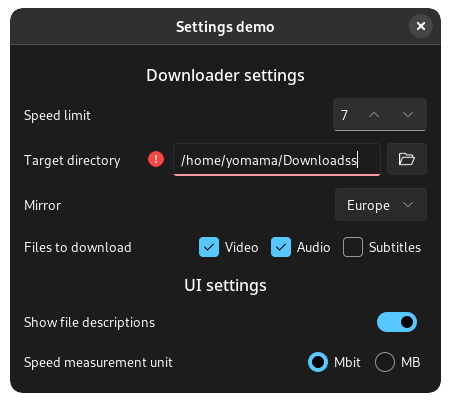
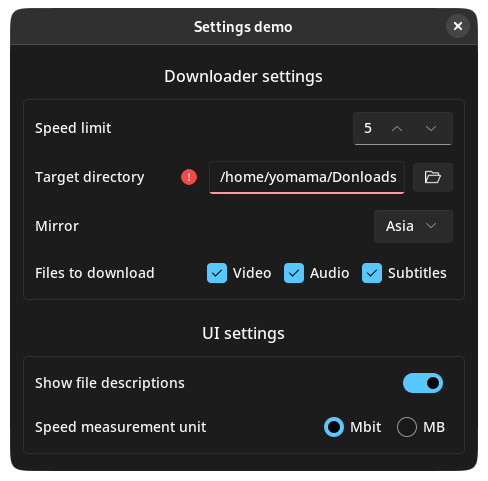
(GUI) Made sure even SectionFrames and TypeFrames inherit ttk classes when enabled (+ improved padding and made it configurable)

diff --git a/settings_gui/tkinter/type_frames.py b/settings_gui/tkinter/type_frames.py
@@ -1,8 +1,7 @@
 import os, typing, colorsys, settings, subprocess, tkinter.filedialog
 import tkinter as tk
 
-from . import PAD
-from ._abstractor import a
+from . import pad, a
 
 
 
@@ -19,14 +18,14 @@ class _Base(a.layer.Frame):
 		self.error_photoimage = tk.PhotoImage(file=_icon_path('error'))
 		self.error_icon = _AppearingWidget(a.layer.Label(self, image=self.error_photoimage))
 
-		a.layer.Label(self, text=setting.name).pack(side='left', padx=PAD)
-		a.layer.Frame(self).pack(side='left', padx=PAD*3)
+		a.layer.Label(self, text=setting.name).pack(side='left', padx=pad())
+		a.layer.Frame(self).pack(side='left', padx=pad()*3)
 
 		self.init()
 
 		if isinstance(self.widget, a.layer.Widget):
 			self.widget: a.layer.Widget
-			self.widget.pack(side='right', padx=PAD)
+			self.widget.pack(side='right', padx=pad())
 
 		if isinstance(self.widget, (a.layer.Entry, a.layer.Spinbox, a.layer.OptionMenu)):
 			self.variable.trace_add('write', self.update_width)
@@ -98,7 +97,7 @@ class Choice(_Base):
 			frame = a.layer.Frame(self)
 			for option in reversed(self.setting.options):
 				a.layer.Radiobutton(frame, text=option, value=option, variable=self.variable,
-				                    command=self.save_from_widget).pack(side='right', padx=PAD)
+				                    command=self.save_from_widget).pack(side='right', padx=pad())
 			self.widget = frame
 		else:
 			self.widget = a.layer.OptionMenu(self, self.variable, self.setting.value, *self.setting.options,
@@ -117,7 +116,7 @@ class Multichoice(_Base):
 		for option in self.setting.options:
 			# noinspection PyTypeChecker
 			a.layer.Checkbutton(self.widget, text=option, variable=self.variable[option],
-			                    command=self.save_from_widget).pack(side=direction, anchor='w', padx=PAD / 2)
+			                    command=self.save_from_widget).pack(side=direction, anchor='w', padx=pad() / 2)
 
 
 	class MultichoiceVar:
@@ -187,7 +186,7 @@ class Path(Text):
 	"""Like Text, but with a button to open a file chooser"""
 	def init(self):
 		super().init()
-		self.icon_button('folder', self.browse).pack(side='right', padx=PAD)
+		self.icon_button('folder', self.browse).pack(side='right', padx=pad())
 
 	def browse(self):
 		try:
@@ -251,7 +250,7 @@ class _AppearingWidget:
 
 	def show(self):
 		if not self.visible:
-			self.widget.pack(side='right', padx=PAD*2)
+			self.widget.pack(side='right', padx=pad()*2)
 			self.visible = True
 
 	def hide(self):

diff --git a/settings_gui/tkinter/main.py b/settings_gui/tkinter/main.py
@@ -1,7 +1,6 @@
 import settings, tkinter
 
-from . import section_frames, PAD
-from ._abstractor import a
+from . import section_frames, pad, a
 
 
 class SettingsFrame(a.layer.Frame):
@@ -11,16 +10,17 @@ class SettingsFrame(a.layer.Frame):
 		for section in settings.all_sections:
 
 			if section != settings.base.default_section:
-				a.layer.Label(self, text=section.name, font='big').pack(padx=PAD)
+				a.layer.Frame(self).pack(pady=pad())  # padding
+				a.layer.Label(self, text=section.name, font='big').pack(padx=pad())
 
-			self.sections.append(section_frames.SectionFrame(self, section, autosave=autosave))
-			self.sections[-1].pack(fill='x', expand=True, padx=PAD * 2, pady=PAD * 2)
+				self.sections.append(section_frames.SectionFrame(self, section, autosave=autosave))
+				self.sections[-1].pack(fill='x', expand=True, padx=2*pad(), pady=3*pad())
 
 		if isinstance(save_button, str):
 			button = a.layer.Button(self, command=self.save_settings, text=save_button)
 			if a.is_ttk():
 				button.configure(style='Accent.TButton')
-			button.pack(pady=PAD*3)
+			button.pack(pady=pad()*3)
 
 	def save_settings(self):
 		for section_frame in self.sections:
@@ -33,7 +33,7 @@ class SettingsFrame(a.layer.Frame):
 class SettingsWindow(tkinter.Toplevel):
 	def __init__(self, master, title="Settings", autosave=True, save_button: str = None):
 		super().__init__(master)
-		SettingsFrame(self, autosave, save_button).pack(padx=PAD*2, pady=PAD*2, fill='both')
+		SettingsFrame(self, autosave, save_button).pack(padx=pad()*2, pady=pad()*2, fill='both')
 
 		self.title(title)
 	#	self.minsize(self.winfo_width(), self.winfo_height())

diff --git a/tests/test_gui_(manual).py b/tests/test_gui_(manual).py
@@ -18,10 +18,12 @@ def test_tkinter():
 
 	import tkinter
 	window = tkinter.Tk()
-	window.title("Settings demo")
+	window.title("Check that tkinter GUI looks right")
 
 	import settings_gui.tkinter
-	settings_gui.tkinter.SettingsFrame(window).pack(padx=5, pady=5, fill='both')
+	frame = settings_gui.tkinter.SettingsFrame(window)
+	assert isinstance(frame, tkinter.Frame)
+	frame.pack(padx=5, pady=5, fill='both')
 
 	window.mainloop()
 
@@ -29,13 +31,22 @@ def test_tkinter():
 
 def test_ttk():
 
-	import tkinter
+	import tkinter.ttk
 	window = tkinter.Tk()
-	window.title("Settings demo")
+	window.title("Check that ttk GUI looks right")
 
-	import settings_gui.ttk
 	import sv_ttk
 	sv_ttk.set_theme('dark')
-	settings_gui.ttk.SettingsFrame(window).pack(padx=5, pady=5, fill='both')
+
+	import settings_gui.ttk
+	settings_gui.ttk.set_padding(4)
+	tkinter.ttk.Frame(window).pack(pady=2)
+	frame = settings_gui.ttk.SettingsFrame(window)
+	assert isinstance(frame, tkinter.ttk.Frame)
+	for section in frame.sections:
+		section.configure(style='Card.TFrame')
+	frame.pack(padx=5, pady=5, fill='both')
 
 	window.mainloop()
+
+	settings_gui.ttk.disable_ttk()

diff --git a/settings_gui/ttk/__init__.py b/settings_gui/ttk/__init__.py
@@ -1,14 +1,36 @@
 """
 Automatic ttk UI (based off of the tkinter variant) for the 'settings' package (object-settings)
+
+(Tip: you can use set_padding() to match the padding of your application)
 """
 
-import settings_gui.tkinter
 
-# noinspection PyProtectedMember
-settings_gui.tkinter._abstractor.a.switch_to_ttk()
+import settings_gui._tk_abstractor as _abstractor
+
 from settings_gui.tkinter import *
+
+
+
+
+def enable_ttk():
+	_abstractor.a.switch_to_ttk()
+	_reload()
 
 
 def disable_ttk():
 	# noinspection PyProtectedMember
-	settings_gui.tkinter._abstractor.a.switch_to_tkinter()
+	_abstractor.a.switch_to_tkinter()
+	_reload()
+
+def _reload():
+	import importlib
+	import settings_gui.tkinter
+	settings_gui.tkinter._reload_modules()
+	importlib.reload(settings_gui.tkinter)
+	importlib.reload(__import__(__name__))
+	exec('from settings_gui.tkinter import *', globals())
+
+
+
+if not _abstractor.a.is_ttk():
+	enable_ttk()

diff --git a/settings_gui/tkinter/section_frames.py b/settings_gui/tkinter/section_frames.py
@@ -1,7 +1,6 @@
 import settings
 
-from . import type_frames, PAD
-from ._abstractor import a
+from . import type_frames, pad, a
 
 
 
@@ -10,12 +9,18 @@ class SectionFrame(a.layer.Frame):
 	def __init__(self, master, section: settings.Section, autosave=True):
 		super().__init__(master)
 		self.settings = []
+		self._pad()
 		for setting in section.settings:
 			for type, type_frame in type_frames.types.items():
 				if isinstance(setting, type):
 					self.settings.append(type_frame(self, setting, autosave=autosave))
-					self.settings[-1].pack(fill='x', pady=PAD*2)
+					self.settings[-1].pack(fill='x', pady=pad()*2, padx=pad()*2)
 					break
+		self._pad()
+
+
+	def _pad(self):
+		a.layer.Frame(self).pack(pady=pad()/2)
 
 	def save_settings(self):
 		for setting_frame in self.settings:

diff --git a/settings_gui/tkinter/__init__.py b/settings_gui/tkinter/__init__.py
@@ -1,10 +1,32 @@
 """
 Automatic tkinter UI for the 'settings' package (object-settings)
+
+(Tip: you can use set_padding() to match the padding of your application)
 """
 
-PAD = 3
 
-from . import _abstractor, main, section_frames, type_frames
+_PADDING = 2
+
+def pad():
+	return _PADDING
+
+def set_padding(padding: float):
+	global _PADDING
+	_PADDING = padding
+
+
+from settings_gui._tk_abstractor import a
+
+from . import main, section_frames, type_frames
 
 
 from .main import SettingsFrame, SettingsWindow
+
+
+
+def _reload_modules():
+	import importlib
+	for module in {main, section_frames, type_frames}:
+		importlib.reload(module)
+
+

diff --git a/settings_gui/_tk_abstractor.py b/settings_gui/_tk_abstractor.py
@@ -2,9 +2,9 @@ import tkinter
 import tkinter.ttk
 
 
-class TtkAbstractor:
+class TkAbstractor:
 	def __init__(self):
-		self._layer = tkinter.ttk
+		self._layer = tkinter
 
 	@property
 	def layer(self):
@@ -20,6 +20,4 @@ class TtkAbstractor:
 		return self.layer == tkinter.ttk
 
 
-a = TtkAbstractor()
-
-a.switch_to_tkinter()
+a = TkAbstractor()
